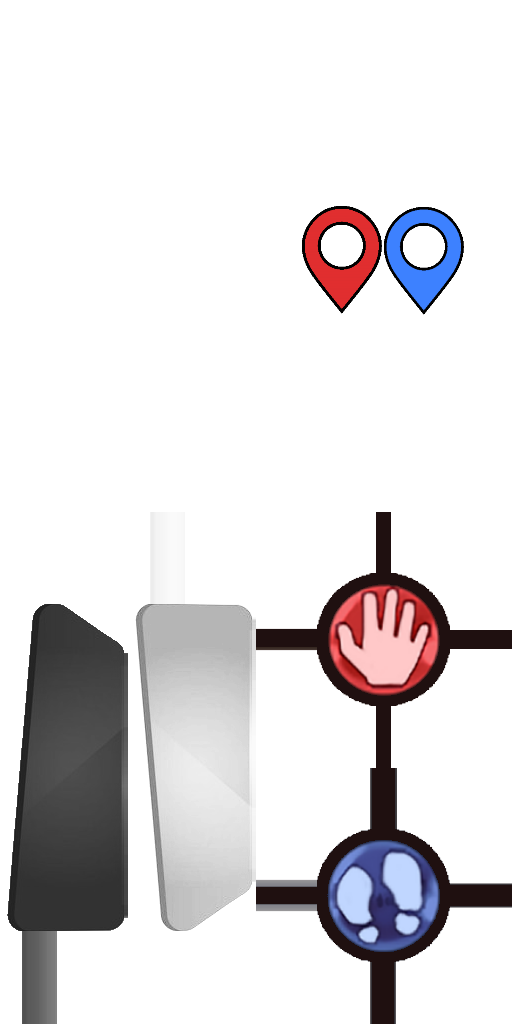
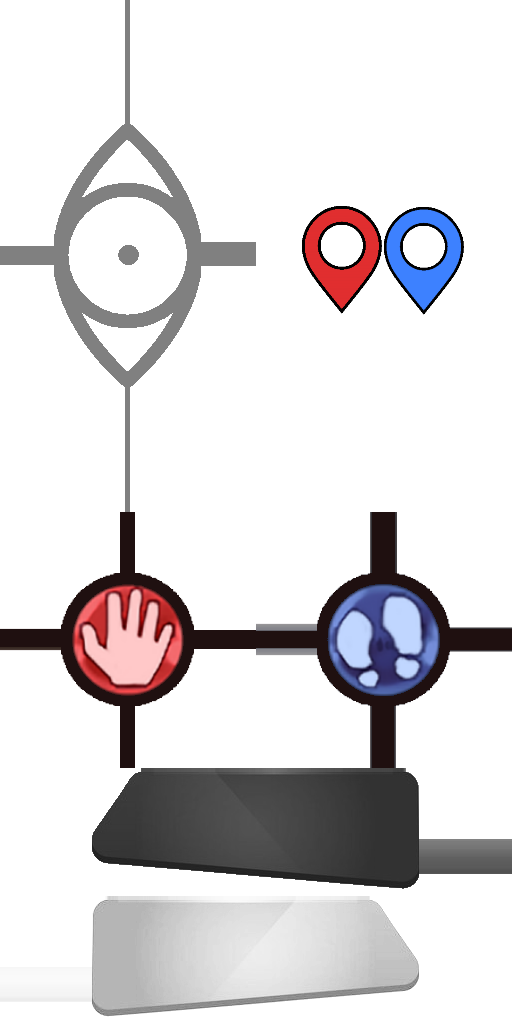
Add files via upload

diff --git a/scripts/c3runtime.js b/scripts/c3runtime.js
@@ -4518,11 +4518,11 @@ self.C3_GetObjectRefTable = function () {
 		C3.Plugins.System.Acts.Wait,
 		C3.Plugins.Sprite.Cnds.CompareX,
 		C3.Plugins.Sprite.Cnds.CompareY,
+		C3.Plugins.Text.Acts.SetVisible,
 		C3.Plugins.System.Cnds.LayerVisible,
 		C3.Plugins.Sprite.Cnds.OnCollision,
 		C3.Plugins.Sprite.Exps.Width,
 		C3.Plugins.Sprite.Exps.Height,
-		C3.Plugins.Text.Acts.SetVisible,
 		C3.Plugins.Sprite.Acts.SetOpacity,
 		C3.Plugins.Touch.Cnds.OnTapGesture,
 		C3.Plugins.System.Acts.SetBoolVar,
@@ -4585,6 +4585,8 @@ self.C3_JsPropNameTable = [
 	{GameOver: 0},
 	{o_FakeBackgroundEndGame: 0},
 	{o_sButtonRestart: 0},
+	{o_sInvisibleFugr: 0},
+	{s_Glaz: 0},
 	{ButtonWork: 0},
 	{FigurHost: 0},
 	{Map: 0},
@@ -4645,7 +4647,9 @@ self.InstanceType = {
 	o_ListFigurPeer: class extends self.IArrayInstance {},
 	GameOver: class extends self.ISpriteInstance {},
 	o_FakeBackgroundEndGame: class extends self.ISpriteInstance {},
-	o_sButtonRestart: class extends self.ISpriteInstance {}
+	o_sButtonRestart: class extends self.ISpriteInstance {},
+	o_sInvisibleFugr: class extends self.ISpriteInstance {},
+	s_Glaz: class extends self.ISpriteInstance {}
 }
 }
 
